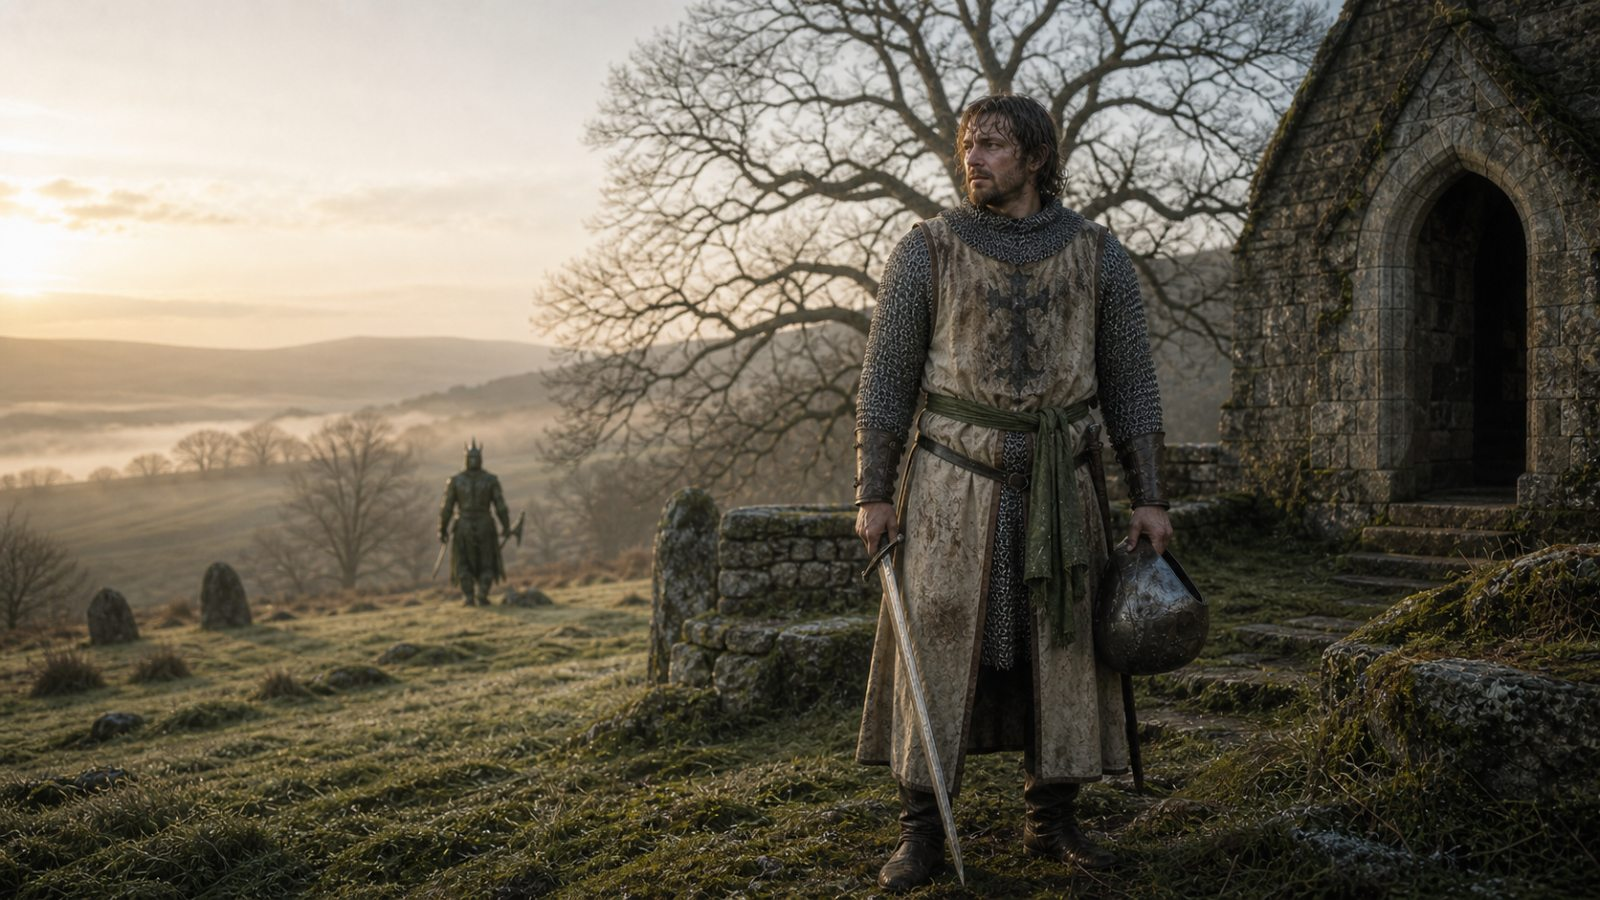
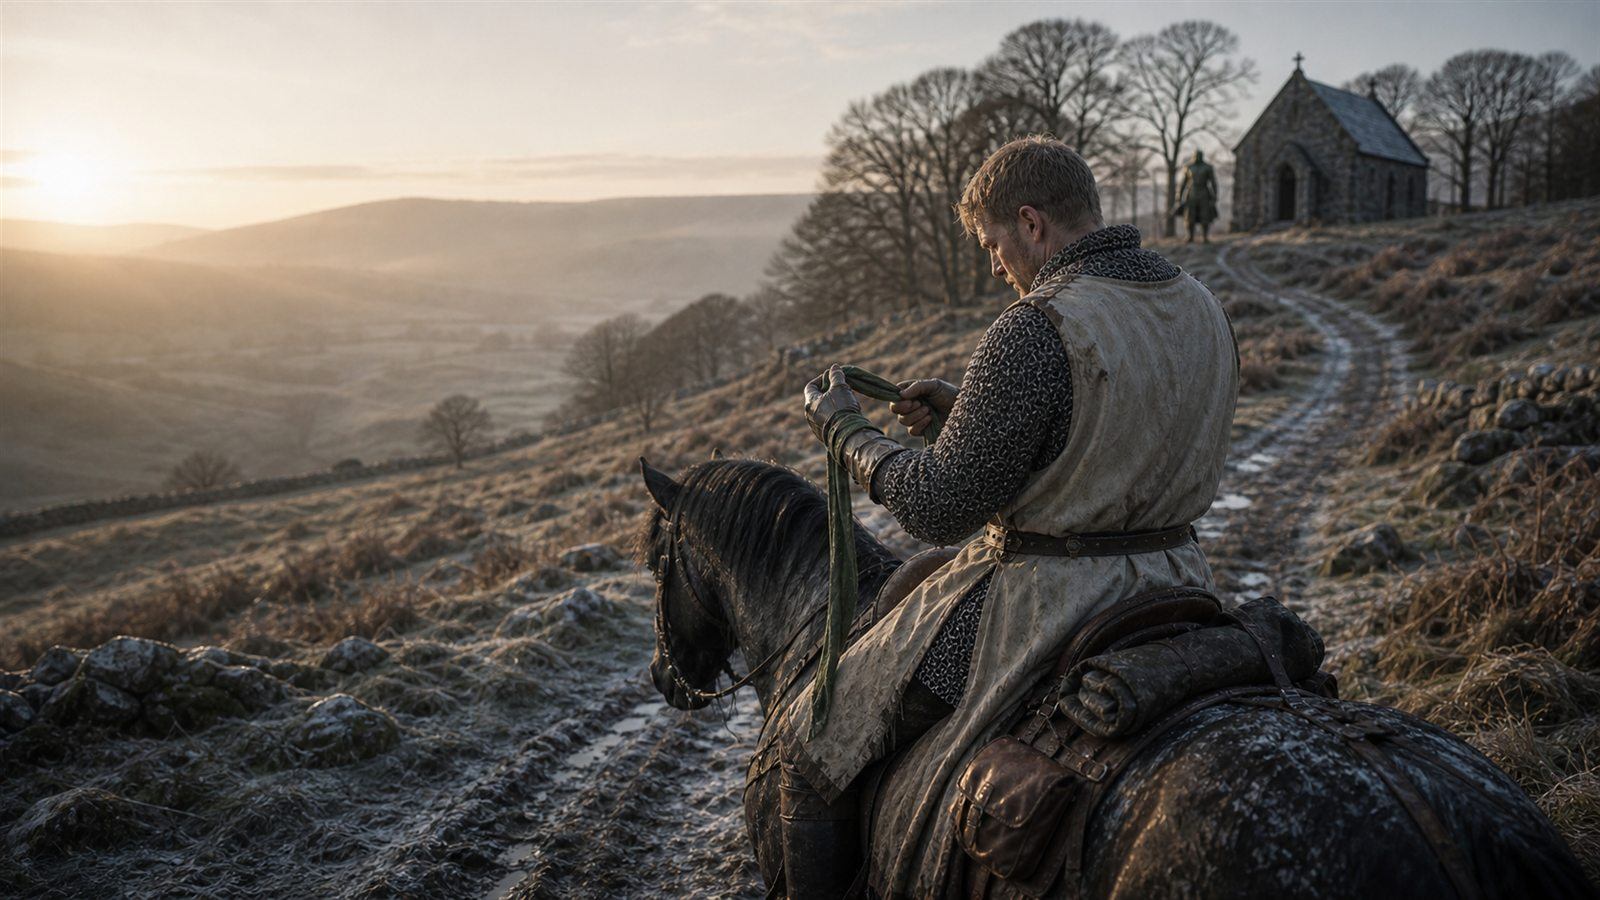
Vary hero compositions and add three legend artworks

diff --git a/legends/brigid.html b/legends/brigid.html
@@ -13,12 +13,12 @@
 <meta property="og:url" content="https://folklorefinder.uk/legends/brigid"/>
 <meta property="og:title" content="Brigid"/>
 <meta property="og:description" content="Goddess of fire, poetry, healing and smithcraft — one of the most beloved figures in Celtic tradition. Her festival Imbolc marks the first breath of…"/>
-<meta property="og:image" content="https://folklorefinder.uk/og/category-deity.png"/>
+<meta property="og:image" content="https://folklorefinder.uk/legend-images/brigid-hero.jpg"/>
 <meta property="og:site_name" content="Folklore Map of Britain &amp; Ireland"/>
 <meta name="twitter:card" content="summary_large_image"/>
 <meta name="twitter:title" content="Brigid"/>
 <meta name="twitter:description" content="Goddess of fire, poetry, healing and smithcraft — one of the most beloved figures in Celtic tradition. Her festival Imbolc marks the first breath of…"/>
-<meta name="twitter:image" content="https://folklorefinder.uk/og/category-deity.png"/>
+<meta name="twitter:image" content="https://folklorefinder.uk/legend-images/brigid-hero.jpg"/>
 <link rel="preconnect" href="https://fonts.googleapis.com"/>
 <link rel="preconnect" href="https://fonts.gstatic.com" crossorigin/>
 <link href="https://fonts.googleapis.com/css2?family=Marcellus&amp;family=Spectral:ital,wght@0,400;0,500;0,600;1,400;1,500&amp;display=swap" rel="stylesheet"/>
@@ -42,7 +42,7 @@
   <div class="shell">
     <nav class="crumb" aria-label="Breadcrumb"><a href="https://folklorefinder.uk/legends/">Legends</a><span class="sep">&#8250;</span><a href="https://folklorefinder.uk/legends/category/deity">Deities</a><span class="sep">&#8250;</span><a href="https://folklorefinder.uk/legends/region/ireland">Ireland</a><span class="sep">&#8250;</span><span class="here">Brigid</span></nav>
     <section class="hero" aria-labelledby="legend-title">
-      <div class="hero-placeholder" role="img" aria-label="Illustration placeholder for Brigid" style="--placeholder-colour:#1e4a3a"><div class="placeholder-lines" aria-hidden="true"></div><svg viewBox="0 0 512 512" aria-hidden="true"><path d="M347.992 22.832c-51.712.07-101.096 34.503-109.127 86.984-6.792 44.385 21.9 91.457 68.047 97.996 33.752 4.784 69.154-16.666 73.35-50.78 2.95-23.992-12.95-49.414-37.766-52.053-5.27-.562-10.605.153-15.478 1.91-7.48 1.888-13.638 7.08-16.848 13.93a24.336 24.336 0 0 0-2.83 9.608c-.395 5 1.114 10.15 3.95 14.144 4.44 7.53 12.626 12.586 22 12.586 7.837 0 14.846-3.534 19.528-9.094-1.186 6.693-5.074 12.374-9.923 16.1-5.798 4.454-12.964 6.677-20.323 6.29-21.858-1.142-35.413-21.852-33.86-41.5 2.225-28.175 29.754-45.323 55.76-42.558 36.215 3.852 58.474 39.28 54.337 72.918-5.608 45.582-51.27 73.13-94.52 67-35.455-5.024-62.33-28.824-75.702-59.06-25.502-12.462-54.185-18.076-82.324-15.568-73.17 6.52-135.548 70.878-128.2 146.78 5.672 58.588 56.423 108.3 115.655 101.75 44.613-4.93 82.65-44.843 77.028-91.126-4.112-33.853-33.983-62.497-68.006-57.717-23.93 3.362-44.37 25.31-40.498 49.973 2.195 13.982 13.266 26.085 26.428 27.617 1.503.276 3.05.426 4.633.426 14.097 0 25.523-11.428 25.523-25.525 0-10.782-6.687-19.994-16.14-23.734 6.22-.15 12.117 2.062 16.607 5.505 5.8 4.448 9.8 10.797 11.332 18.004 4.548 21.41-11.938 39.867-31.315 43.456-27.79 5.148-51.47-17.014-55.527-42.854-5.648-35.982 22.8-66.658 56.358-71.373 45.47-6.39 83.886 30.595 89.154 73.966 1.82 14.983.02 29.355-4.59 42.527 2.383 27.298 11.775 53.85 27.447 76.166 42.22 60.117 129.123 81.955 191.172 37.628 47.897-34.216 65.572-103.043 30.295-151.074-26.57-36.177-80.135-49.16-117.4-21.143-27.258 20.495-37.133 60.7-15.988 87.78 14.873 19.044 44.09 25.772 63.51 10.083 12.984-10.49 17.54-30.37 6.88-42.858-2.156-2.525-4.954-4.495-7.997-5.785a25.755 25.755 0 0 0-5.055-1.95c-13.617-3.648-27.613 4.433-31.26 18.05a25.49 25.49 0 0 0-.79 8.71c-3.532-5.438-4.66-11.908-3.897-17.728.952-7.248 4.448-13.887 9.924-18.818 16.265-14.65 40.494-9.6 53.287 5.39 18.35 21.496 10.997 53.09-9.35 69.526-28.333 22.888-69.12 13.59-89.978-13.12-28.26-36.19-15.44-87.96 19.482-114.214 17.342-13.038 37.328-18.982 57.246-18.992 12.108-.007 24.188 2.19 35.635 6.306 19.393-21.698 32.76-48.573 37.747-77.1 12.655-72.385-33.343-149.295-108.54-161.83a115.091 115.091 0 0 0-19.085-1.558z"/></svg><span>Illustration in preparation</span></div>
+      <img src="https://folklorefinder.uk/legend-images/brigid-hero.jpg" alt="A cloaked woman tending a low sacred fire beside a timber church in an early Irish settlement at dawn"/>
       <div class="hero-copy">
         <div class="eyebrow">
           <span class="category" style="background:#1e4a3a">Deities</span>
@@ -51,13 +51,13 @@
         <h1 id="legend-title">Brigid</h1>
         <p class="standfirst">Goddess of fire, poetry, healing and smithcraft — one of the most beloved figures in Celtic tradition. Her festival Imbolc marks the first breath of spring. Christianised as Saint Brigid, her flame was tended for centuries at Kildare.</p>
       </div>
-
+<span class="hero-caption">A visual interpretation of Brigid and the sacred flame tradition</span>
     </section>
 
     <div class="content-grid">
       <article class="article">
         <div class="article-label">The legend</div>
-        <p class="opening">Goddess of fire, poetry, healing and smithcraft — one of the most beloved figures in Celtic tradition. Her festival Imbolc marks the first breath of spring. Christianised as Saint Brigid, her flame was tended for centuries at Kildare.</p>
+        <p class="opening">Goddess of fire, poetry, healing and smithcraft — one of the most beloved figures in Celtic tradition. Her festival Imbolc marks the first breath of spring. Christianised as Saint Brigid, her flame was tended for centuries at Kildare.</p><blockquote class="pullquote">Christianised as Saint Brigid, her flame was tended for centuries at Kildare.</blockquote>
         
         <div class="article-actions" aria-label="Legend actions">
           <a class="button" href="https://folklorefinder.uk/map?legend=Brigid">Open on full map</a>
@@ -86,7 +86,7 @@
         <section class="side-card side-pad">
           <p class="side-kicker">At a glance</p>
           <h2>About this legend</h2>
-          <div class="facts"><div class="fact"><span>Category</span><strong>Deities</strong></div><div class="fact"><span>Region</span><strong>Ireland &amp; Britain</strong></div></div>
+          <div class="facts"><div class="fact"><span>Type</span><strong>Goddess</strong></div><div class="fact"><span>Domains</span><strong>Fire, poetry, healing and smithcraft</strong></div><div class="fact"><span>Festival</span><strong>Imbolc</strong></div><div class="fact"><span>Legacy</span><strong>Saint Brigid and the Kildare flame</strong></div></div>
         </section>
 
         <section class="side-card side-pad"><p class="side-kicker">Sources</p><h2>Further reading</h2><p class="source-copy">Sources used to research and locate this legend.</p><ul class="source-list"><li><a href="https://en.wikipedia.org/wiki/Brigid" target="_blank" rel="noopener">Wikipedia &#8594;</a> <span class="source-tier">encyclopedic</span></li></ul></section>

diff --git a/legends/children-of-lir.html b/legends/children-of-lir.html
@@ -13,12 +13,12 @@
 <meta property="og:url" content="https://folklorefinder.uk/legends/children-of-lir"/>
 <meta property="og:title" content="Children of Lir"/>
 <meta property="og:description" content="Four children transformed into swans by their jealous stepmother for nine hundred years — three hundred on the waters of Lough Derravaragh, three hundred…"/>
-<meta property="og:image" content="https://folklorefinder.uk/og/category-water.png"/>
+<meta property="og:image" content="https://folklorefinder.uk/legend-images/children-of-lir-hero.jpg"/>
 <meta property="og:site_name" content="Folklore Map of Britain &amp; Ireland"/>
 <meta name="twitter:card" content="summary_large_image"/>
 <meta name="twitter:title" content="Children of Lir"/>
 <meta name="twitter:description" content="Four children transformed into swans by their jealous stepmother for nine hundred years — three hundred on the waters of Lough Derravaragh, three hundred…"/>
-<meta name="twitter:image" content="https://folklorefinder.uk/og/category-water.png"/>
+<meta name="twitter:image" content="https://folklorefinder.uk/legend-images/children-of-lir-hero.jpg"/>
 <link rel="preconnect" href="https://fonts.googleapis.com"/>
 <link rel="preconnect" href="https://fonts.gstatic.com" crossorigin/>
 <link href="https://fonts.googleapis.com/css2?family=Marcellus&amp;family=Spectral:ital,wght@0,400;0,500;0,600;1,400;1,500&amp;display=swap" rel="stylesheet"/>
@@ -42,7 +42,7 @@
   <div class="shell">
     <nav class="crumb" aria-label="Breadcrumb"><a href="https://folklorefinder.uk/legends/">Legends</a><span class="sep">&#8250;</span><a href="https://folklorefinder.uk/legends/category/water">Aquatic Legends</a><span class="sep">&#8250;</span><a href="https://folklorefinder.uk/legends/region/county-mayo">County Mayo</a><span class="sep">&#8250;</span><span class="here">Children of Lir</span></nav>
     <section class="hero" aria-labelledby="legend-title">
-      <div class="hero-placeholder" role="img" aria-label="Illustration placeholder for Children of Lir" style="--placeholder-colour:#1a5a6a"><div class="placeholder-lines" aria-hidden="true"></div><svg viewBox="0 0 512 512" aria-hidden="true"><path d="M319.406 75.156c-50.542.49-104.39 20.876-150.094 72.844-10.232 9.65-19.88 19.59-29.187 29.313-20.516 21.433-39.694 41.877-60.22 56.468-18.484 13.142-37.73 21.617-61 22.75v89.876c53.93-32.793 59.934-67.832 115.595-136.312 6.38-6.524 12.727-13.19 19.125-19.875 9.96-10.407 20.016-20.803 30.563-30.657 46.422-36.83 92.022-27.93 107.218 2.5 4.6-49.27 57.958-30.564 66.813 18.875 6.91-33.696 20.327-44.354 34.03-31.625-28.136 49.585-26.61 110.87-8.406 164.937 20.51 60.915 61.743 114.13 110.344 133.75v-20.563c-38.34-19.194-74.662-65.71-92.657-119.156-15.937-47.336-17.777-99.07 2.75-141.655 8.492 16.92 16.342 43.406 21.94 79.53 17.992-84.587 54.762-72.463 56.624-10.593 42.998-66.287-52.197-161.48-163.438-160.406zm-35.656 95.78C194.225 181.69 66.158 359.648 43.625 494.97h91.25c1.02-133.954 71.114-282.045 148.875-324.033zm32.406 13.69c-76.76 49.056-114.574 208.732-109.812 310.343h78.437c-41.213-80.74-23.207-252.666 31.376-310.345zm21.875 26.218c-34.686 82.23-25.705 191.077 25.158 284.125h78c-75.605-53.774-120.09-190.455-103.157-284.126z"/></svg><span>Illustration in preparation</span></div>
+      <img src="https://folklorefinder.uk/legend-images/children-of-lir-hero.jpg" alt="Four white swans gliding across dark coastal water beneath the cliffs of County Mayo at dawn"/>
       <div class="hero-copy">
         <div class="eyebrow">
           <span class="category" style="background:#1a5a6a">Aquatic Legends</span>
@@ -51,13 +51,13 @@
         <h1 id="legend-title">Children of Lir</h1>
         <p class="standfirst">Four children transformed into swans by their jealous stepmother for nine hundred years — three hundred on the waters of Lough Derravaragh, three hundred on the Sea of Moyle between Ireland and Scotland, three hundred on the waters of Erris. Their singing was so beautiful that all who heard it forgot their sorrows.</p>
       </div>
-
+<span class="hero-caption">A visual interpretation of the Children of Lir on the western Irish coast</span>
     </section>
 
     <div class="content-grid">
       <article class="article">
         <div class="article-label">The legend</div>
-        <p class="opening">Four children transformed into swans by their jealous stepmother for nine hundred years — three hundred on the waters of Lough Derravaragh, three hundred on the Sea of Moyle between Ireland and Scotland, three hundred on the waters of Erris. Their singing was so beautiful that all who heard it forgot their sorrows.</p>
+        <p class="opening">Four children transformed into swans by their jealous stepmother for nine hundred years — three hundred on the waters of Lough Derravaragh, three hundred on the Sea of Moyle between Ireland and Scotland, three hundred on the waters of Erris. Their singing was so beautiful that all who heard it forgot their sorrows.</p><blockquote class="pullquote">Their singing was so beautiful that all who heard it forgot their sorrows.</blockquote>
         
         <div class="article-actions" aria-label="Legend actions">
           <a class="button" href="https://folklorefinder.uk/map?legend=Children%20of%20Lir">Open on full map</a>
@@ -86,7 +86,7 @@
         <section class="side-card side-pad">
           <p class="side-kicker">At a glance</p>
           <h2>About this legend</h2>
-          <div class="facts"><div class="fact"><span>Category</span><strong>Aquatic Legends</strong></div><div class="fact"><span>Region</span><strong>County Mayo, Ireland</strong></div></div>
+          <div class="facts"><div class="fact"><span>Form</span><strong>Four transformed swans</strong></div><div class="fact"><span>Duration</span><strong>Nine hundred years</strong></div><div class="fact"><span>Waters</span><strong>Lough Derravaragh, the Sea of Moyle and Erris</strong></div><div class="fact"><span>Gift</span><strong>Song that banishes sorrow</strong></div></div>
         </section>
 
         <section class="side-card side-pad"><p class="side-kicker">Sources</p><h2>Further reading</h2><p class="source-copy">Sources used to research and locate this legend.</p><ul class="source-list"><li><a href="https://en.wikipedia.org/wiki/Children_of_Lir" target="_blank" rel="noopener">Wikipedia &#8594;</a> <span class="source-tier">encyclopedic</span></li></ul></section>

diff --git a/legends/avebury.html b/legends/avebury.html
@@ -13,12 +13,12 @@
 <meta property="og:url" content="https://folklorefinder.uk/legends/avebury"/>
 <meta property="og:title" content="Avebury"/>
 <meta property="og:description" content="The largest stone circle in the world — so vast a village was built inside it. The Devil is said to have danced here. At night the stones are said to…"/>
-<meta property="og:image" content="https://folklorefinder.uk/og/category-location.png"/>
+<meta property="og:image" content="https://folklorefinder.uk/legend-images/avebury-hero.jpg"/>
 <meta property="og:site_name" content="Folklore Map of Britain &amp; Ireland"/>
 <meta name="twitter:card" content="summary_large_image"/>
 <meta name="twitter:title" content="Avebury"/>
 <meta name="twitter:description" content="The largest stone circle in the world — so vast a village was built inside it. The Devil is said to have danced here. At night the stones are said to…"/>
-<meta name="twitter:image" content="https://folklorefinder.uk/og/category-location.png"/>
+<meta name="twitter:image" content="https://folklorefinder.uk/legend-images/avebury-hero.jpg"/>
 <link rel="preconnect" href="https://fonts.googleapis.com"/>
 <link rel="preconnect" href="https://fonts.gstatic.com" crossorigin/>
 <link href="https://fonts.googleapis.com/css2?family=Marcellus&amp;family=Spectral:ital,wght@0,400;0,500;0,600;1,400;1,500&amp;display=swap" rel="stylesheet"/>
@@ -42,7 +42,7 @@
   <div class="shell">
     <nav class="crumb" aria-label="Breadcrumb"><a href="https://folklorefinder.uk/legends/">Legends</a><span class="sep">&#8250;</span><a href="https://folklorefinder.uk/legends/category/location">Sacred Sites</a><span class="sep">&#8250;</span><a href="https://folklorefinder.uk/legends/region/wiltshire">Wiltshire</a><span class="sep">&#8250;</span><span class="here">Avebury</span></nav>
     <section class="hero" aria-labelledby="legend-title">
-      <div class="hero-placeholder" role="img" aria-label="Illustration placeholder for Avebury" style="--placeholder-colour:#5a3a18"><div class="placeholder-lines" aria-hidden="true"></div><svg viewBox="0 0 512 512" aria-hidden="true"><path d="M436 26.98 285.9 63.63l-.5.1c-55.8 7.67-118.7 11.48-199.56 4.93L19.18 116.4l54.99 40.2L482.2 125l10.6-29.75c-4.3-5.21-7.9-10.15-11.7-15.12l-60.4 23.77-43.2-11.41 94-26.19C462.1 52.2 452 38.8 436 26.98zM290.7 90.3l-7.2 21.7H136.3l-57.42 5.3 26.72-21.32zm169.6 54.8-40 1.1-17.1 90-14.5 20.9-15.5-41.6 30-68.9-9.7.3-39.2 60.4c-3.1 87.2-22.3 176.8-7.6 265.4 19 7.3 40.7 9.7 61.5 10.2L401 358.3l22.5-33 1.5 95.8 27.5 60.1c10.8-1.1 21.6-2.5 34.4-4.9l-36.1-154.2zm-330.7 28-34.48 2.7-38.78 219 9.33 77.9c6.7 4.3 13.59 6.6 20.5 8.1l-8.99-101.6 12.18-43.3 2.16 81.7 15.38 66.5c22.6 2.4 45.9.1 66.4-5.1l-5.6-173.6z"/></svg><span>Illustration in preparation</span></div>
+      <img src="https://folklorefinder.uk/legend-images/avebury-hero.jpg" alt="Towering standing stones at Avebury rising from misty grass with the village beyond at dawn"/>
       <div class="hero-copy">
         <div class="eyebrow">
           <span class="category" style="background:#5a3a18">Sacred Sites</span>
@@ -51,13 +51,13 @@
         <h1 id="legend-title">Avebury</h1>
         <p class="standfirst">The largest stone circle in the world — so vast a village was built inside it. The Devil is said to have danced here. At night the stones are said to move, drink from the stream, and return before dawn. No one has ever counted them twice and got the same number.</p>
       </div>
-
+<span class="hero-caption">A visual interpretation of Avebury at dawn</span>
     </section>
 
     <div class="content-grid">
       <article class="article">
         <div class="article-label">The legend</div>
-        <p class="opening">The largest stone circle in the world — so vast a village was built inside it. The Devil is said to have danced here. At night the stones are said to move, drink from the stream, and return before dawn. No one has ever counted them twice and got the same number.</p>
+        <p class="opening">The largest stone circle in the world — so vast a village was built inside it. The Devil is said to have danced here. At night the stones are said to move, drink from the stream, and return before dawn. No one has ever counted them twice and got the same number.</p><blockquote class="pullquote">At night the stones are said to move, drink from the stream, and return before dawn.</blockquote>
         
         <div class="article-actions" aria-label="Legend actions">
           <a class="button" href="https://folklorefinder.uk/map?legend=Avebury">Open on full map</a>
@@ -71,7 +71,7 @@
         <section class="side-card">
           <div class="side-pad">
             <p class="side-kicker">Explore the place</p>
-            <h2>Wiltshire</h2>
+            <h2>Avebury, Wiltshire</h2>
             <p class="map-meta">Wiltshire</p>
           </div>
           <div id="miniMap" data-lat="51.428000" data-lng="-1.854000" data-colour="#5a3a18" data-initial="A" aria-label="Map showing the location associated with Avebury"></div>
@@ -86,7 +86,7 @@
         <section class="side-card side-pad">
           <p class="side-kicker">At a glance</p>
           <h2>About this legend</h2>
-          <div class="facts"><div class="fact"><span>Category</span><strong>Sacred Sites</strong></div><div class="fact"><span>Region</span><strong>Wiltshire</strong></div></div>
+          <div class="facts"><div class="fact"><span>Type</span><strong>Stone circle</strong></div><div class="fact"><span>Scale</span><strong>Largest in the world</strong></div><div class="fact"><span>Setting</span><strong>Wiltshire village landscape</strong></div><div class="fact"><span>Motif</span><strong>Moving, counting and dancing stones</strong></div></div>
         </section>
 
         <section class="side-card side-pad"><p class="side-kicker">Sources</p><h2>Further reading</h2><p class="source-copy">Sources used to research and locate this legend.</p><ul class="source-list"><li><a href="https://en.wikipedia.org/wiki/Avebury" target="_blank" rel="noopener">Wikipedia &#8594;</a> <span class="source-tier">encyclopedic</span></li></ul></section>

diff --git a/legends/gawain.html b/legends/gawain.html
@@ -42,7 +42,7 @@
   <div class="shell">
     <nav class="crumb" aria-label="Breadcrumb"><a href="https://folklorefinder.uk/legends/">Legends</a><span class="sep">&#8250;</span><a href="https://folklorefinder.uk/legends/category/hero">Legendary Figures</a><span class="sep">&#8250;</span><a href="https://folklorefinder.uk/legends/region/scotland">Scotland</a><span class="sep">&#8250;</span><span class="here">Gawain</span></nav>
     <section class="hero" aria-labelledby="legend-title">
-      <img src="https://folklorefinder.uk/legend-images/gawain-hero.jpg" alt="Gawain in mail standing at the Green Chapel at sunrise with a green girdle tied around his waist"/>
+      <img src="https://folklorefinder.uk/legend-images/gawain-hero.jpg" alt="Gawain riding away from the distant Green Chapel while examining the green girdle wrapped around his hand"/>
       <div class="hero-copy">
         <div class="eyebrow">
           <span class="category" style="background:#6a3a2a">Legendary Figures</span>
@@ -51,7 +51,7 @@
         <h1 id="legend-title">Gawain</h1>
         <p class="standfirst">The most courteous of Arthur&#x27;s knights, whose strange bargain with the Green Knight tested not his sword arm but his honour — and found it, after a moment&#x27;s weakness, intact. His strength waxed with the morning sun and waned at noon, a hint of something older than chivalry in his blood.</p>
       </div>
-<span class="hero-caption">A visual interpretation of Gawain after the Green Knight&#x27;s test</span>
+<span class="hero-caption">A visual interpretation of Gawain leaving the Green Chapel after his test</span>
     </section>
 
     <div class="content-grid">

diff --git a/legends/mordred.html b/legends/mordred.html
@@ -42,7 +42,7 @@
   <div class="shell">
     <nav class="crumb" aria-label="Breadcrumb"><a href="https://folklorefinder.uk/legends/">Legends</a><span class="sep">&#8250;</span><a href="https://folklorefinder.uk/legends/category/hero">Legendary Figures</a><span class="sep">&#8250;</span><a href="https://folklorefinder.uk/legends/region/scotland">Scotland</a><span class="sep">&#8250;</span><span class="here">Mordred</span></nav>
     <section class="hero" aria-labelledby="legend-title">
-      <img src="https://folklorefinder.uk/legend-images/mordred-hero.jpg" alt="Mordred in weathered mail holding an iron crown amid the abandoned shields of Camlann"/>
+      <img src="https://folklorefinder.uk/legend-images/mordred-hero.jpg" alt="A shaved-headed Mordred seated over a campaign map with uneasy captains before Camlann"/>
       <div class="hero-copy">
         <div class="eyebrow">
           <span class="category" style="background:#6a3a2a">Legendary Figures</span>
@@ -51,7 +51,7 @@
         <h1 id="legend-title">Mordred</h1>
         <p class="standfirst">Arthur&#x27;s nephew — or in the darker tellings, his son — who seized the throne while Arthur was on the Grail quest, forced Guinevere toward remarriage, and at Camlann fatally wounded the king he had been. The one who ends the Round Table, and cannot be entirely condemned for it.</p>
       </div>
-<span class="hero-caption">A visual interpretation of Mordred at the end of the Round Table</span>
+<span class="hero-caption">A visual interpretation of Mordred planning the campaign that ends the Round Table</span>
     </section>
 
     <div class="content-grid">

diff --git a/legends/lancelot.html b/legends/lancelot.html
@@ -42,7 +42,7 @@
   <div class="shell">
     <nav class="crumb" aria-label="Breadcrumb"><a href="https://folklorefinder.uk/legends/">Legends</a><span class="sep">&#8250;</span><a href="https://folklorefinder.uk/legends/category/hero">Legendary Figures</a><span class="sep">&#8250;</span><span class="here">Lancelot</span></nav>
     <section class="hero" aria-labelledby="legend-title">
-      <img src="https://folklorefinder.uk/legend-images/lancelot-hero.jpg" alt="Lancelot in weathered mail standing beside his horse on a misty lakeside causeway at dawn"/>
+      <img src="https://folklorefinder.uk/legend-images/lancelot-hero.jpg" alt="Lancelot and a young squire carefully helping a wounded older knight down from a horse beside a misty lake"/>
       <div class="hero-copy">
         <div class="eyebrow">
           <span class="category" style="background:#6a3a2a">Legendary Figures</span>
@@ -51,7 +51,7 @@
         <h1 id="legend-title">Lancelot</h1>
         <p class="standfirst">The greatest knight of the Round Table and Arthur&#x27;s closest companion — until love for Guinevere destroyed both. A French invention grafted onto the older British cycle, but now inseparable from it.</p>
       </div>
-<span class="hero-caption">A visual interpretation of Lancelot divided between loyalty and love</span>
+<span class="hero-caption">A visual interpretation of Lancelot as knight, companion and rescuer</span>
     </section>
 
     <div class="content-grid">
